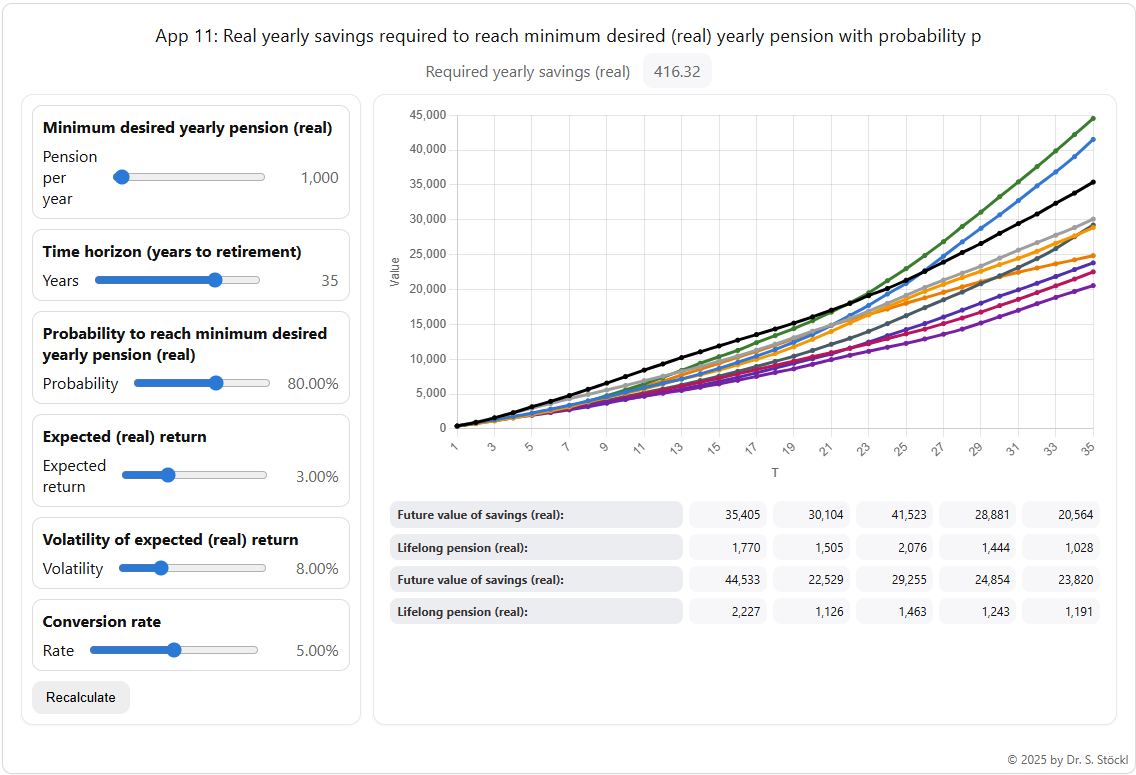
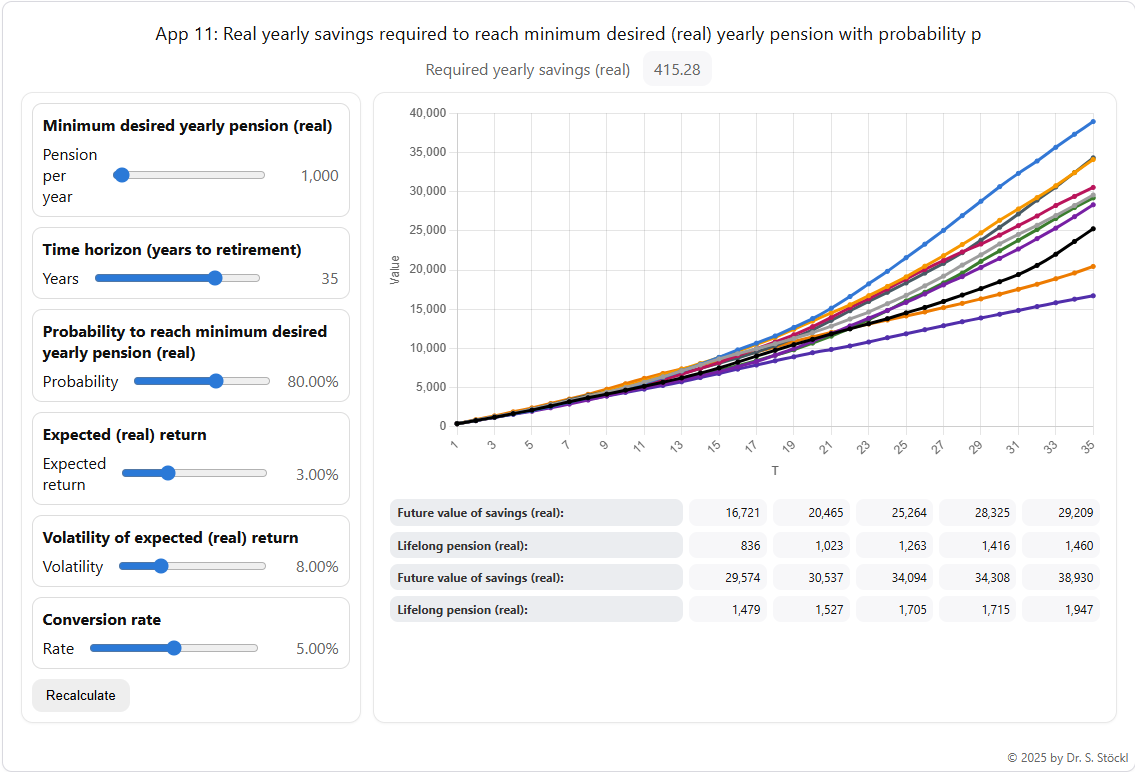
change add3.html

diff --git a/docs/add3.html b/docs/add3.html
@@ -10,15 +10,41 @@
 
 <style>
   html,body{height:100%;margin:0}
-  body{overflow:hidden;font-family:system-ui,Segoe UI,Arial,sans-serif;background:#fff;color:#111}
-  .app{height:640px;display:grid;place-items:stretch}
-  .wrap{max-width:1150px;margin:0 auto;padding:8px 12px;height:100%;box-sizing:border-box}
+  body{font-family:system-ui,Segoe UI,Arial,sans-serif;background:#fff;color:#111}
+
+  /* ===== outer shell (same as add2/add1) ===== */
+  .app-shell{
+    max-width: 1120px;
+    width: min(1120px, calc(100% - 16px));
+    margin: 10px auto;
+    border: 1px solid #d9d9df;
+    border-radius: 10px;
+    background: #fff;
+    padding: 6px;
+    display: grid;
+    grid-template-rows: auto min-content;
+    row-gap: 18px;
+    box-shadow: 0 1px 2px rgba(0,0,0,.04);
+  }
+  .app-shell__footer{
+    justify-self: end;
+    align-self: end;
+    font-size: .75rem;
+    color: #666;
+    white-space: nowrap;
+  }
+
+  /* ===== inner app ===== */
+  .wrap{ padding:8px 12px }
   .title{text-align:center;margin:4px 0 6px;font-size:1.15rem}
   .subtitle{text-align:center;margin-bottom:6px;color:#666}
-  .grid{display:grid;grid-template-columns:340px 1fr;gap:12px;height:calc(100% - 52px)}
+
+  .grid{display:grid;grid-template-columns:340px 1fr;gap:12px}
   @media (max-width:900px){.grid{grid-template-columns:1fr}}
   .panel{border:1px solid #e8e8e8;border-radius:12px;box-shadow:0 1px 2px rgba(0,0,0,.04);background:#fff}
   .left{padding:10px;overflow:auto}
+  .right{padding:10px;display:flex;flex-direction:column;gap:10px;min-width:0}
+
   .group{border:1px solid #ddd;border-radius:10px;padding:10px;margin-bottom:10px}
   .group h3{margin:0 0 8px;font-size:1rem}
   .row{display:flex;align-items:center;gap:.8rem}
@@ -26,26 +52,31 @@
   .val{width:7rem;text-align:right;color:#666;font-variant-numeric:tabular-nums}
   input[type=range]{width:100%}
   button{padding:.55rem .9rem;border:0;border-radius:10px;background:#eee;cursor:pointer}
-  .right{padding:10px;display:flex;flex-direction:column;height:100%;overflow:hidden}
-  .chartWrap{flex:1 0 auto;height:360px}
+
+  .chartWrap{height:380px}
   #line{width:100%;height:100%}
-  .kpi{margin-top:8px;text-align:center}
-  .kpi table{border-collapse:separate;border-spacing:6px;margin:0 auto}
-  .kpi th{background:#ebedf0;color:#333;padding:.35rem .6rem;border-radius:8px}
-  .kpi td{background:#f7f7f9;padding:.35rem .6rem;border-radius:8px;font-variant-numeric:tabular-nums}
-  .kpiTable { border-collapse: separate; border-spacing: 6px; margin: 0 auto; }
-  .kpiTable th, .kpiTable td {
-    background:#f7f7f9; padding:.45rem .6rem; border-radius:8px;
-    font-variant-numeric: tabular-nums;
-    text-align: right; white-space: nowrap;
+
+  /* ===== wrapping table (two-row blocks) ===== */
+  .kpiBlock{ width:100% }
+  .kpiTable{ width:100%; border-collapse:separate; border-spacing:6px; table-layout:auto }
+  .labelPill{
+    background:#ebedf0; color:#333;
+    padding:.32rem .48rem; border-radius:8px; white-space:nowrap;
+    font-size:12px; text-align:left;
   }
-.kpiTable th.label { background:#ebedf0; color:#333; text-align:left; }
-  .debug{margin-top:6px;background:#f7f7f9;border-radius:10px;padding:6px;overflow:auto;flex:0 0 110px;display:none}
+  .cellPill{
+    background:#f7f7f9; padding:.28rem .40rem; border-radius:8px;
+    text-align:right; font-variant-numeric:tabular-nums; white-space:nowrap;
+    font-size:12px;
+  }
+
+  /* Debug */
+  .debug{background:#f7f7f9;border-radius:10px;padding:6px;overflow:auto;display:none}
   pre{margin:0;font-size:.82rem}
 </style>
 </head>
 <body>
-<div class="app">
+<div class="app-shell">
   <div class="wrap">
     <div class="title" id="title">App 12: Years to ruin when spending yearly from given retirement savings</div>
     <div class="subtitle" id="subtitle">Development of wealth with constant yearly spending</div>
@@ -96,27 +127,28 @@
       <div class="panel right">
         <div class="chartWrap"><canvas id="line"></canvas></div>
 
-          <div class="kpi">
-            <table class="kpiTable" id="kpiTableAdd3">
+        <div class="kpiBlock" id="kpiTableWrap">
+          <table class="kpiTable">
+            <tbody id="kpiBody">
               <tr id="add3RowHeader">
-                <th class="label" id="kYearsHdr">Time since entering retirement phase (years):</th>
-                <!-- dynamic year cells -->
+                <th class="labelPill" id="kYearsHdr">Time since entering retirement phase (years):</th>
               </tr>
-              <tr id="add2RowCounts">
-                <th class="label" id="kRuinsHdr">Number of ruins after N years:</th>
-                <!-- dynamic count cells -->
+              <tr id="add3RowCounts">
+                <th class="labelPill" id="kRuinsHdr">Number of ruins after N years:</th>
               </tr>
-            </table>
-          </div>
+            </tbody>
+          </table>
+        </div>
 
         <div class="debug" id="debugBox"><pre id="debug">Waiting…</pre></div>
       </div>
     </div>
   </div>
+  <div class="app-shell__footer">© 2025 by Dr. S. Stöckl</div>
 </div>
 
 <script type="module">
-  // URL params (incl. seed like add1)
+  // URL params
   const params=new URLSearchParams(location.search);
   const lang =(params.get("lang") || "en_EN").toLowerCase();
   const debug=(params.get("debug")||"FALSE").toUpperCase()==="TRUE";
@@ -153,67 +185,91 @@
   // UI
   const spendEl=spend, wealthEl=wealth, muEl=mu, volEl=vol;
   const spendLbl=spendLabel, wealthLbl=wealthLabel, muLbl=muLabel, volLbl=volLabel;
-  const yearsCell=document.getElementById("yearsRow");
-  const ruinsCell=document.getElementById("ruinsRow");
-  const dbgEl=document.getElementById("debug");
   const fmt=(x,opts={})=>Number(x).toLocaleString(undefined,{maximumFractionDigits:0,...opts});
   const pct=x=>(parseFloat(x)*100).toFixed(2)+"%";
-  const log=x=>{ if(debug) dbgEl.textContent=typeof x==="string"?x:JSON.stringify(x,null,2); };
+  const log=x=>{ if(debug) document.getElementById("debug").textContent=typeof x==="string"?x:JSON.stringify(x,null,2); };
 
   function refresh(){
-    spendLbl.textContent=fmt(spendEl.value,{maximumFractionDigits:0});
-    wealthLbl.textContent=fmt(wealthEl.value,{maximumFractionDigits:0});
+    spendLbl.textContent=fmt(spendEl.value);
+    wealthLbl.textContent=fmt(wealthEl.value);
     muLbl.textContent=pct(muEl.value);
     volLbl.textContent=pct(volEl.value);
   } refresh();
 
-  // Chart (multi-line)
+  // Chart
   const COLORS=["#000","#9e9e9e","#1976d2","#ff9800","#7b1fa2","#2e7d32","#c2185b","#455a64","#f57c00","#512da8"];
   const ctx=document.getElementById("line").getContext("2d");
   const line=new Chart(ctx,{type:"line",data:{labels:[],datasets:[]},
-    options:{
-      responsive:true,maintainAspectRatio:false,
-      scales:{ x:{title:{display:true,text:"N"}}, y:{beginAtZero:true,title:{display:true,text:"Value"},ticks:{callback:v=>fmt(v)}}},
-      elements:{point:{radius:2}},
-      plugins:{legend:{display:false}}
+    options:{responsive:true,maintainAspectRatio:false,
+      scales:{x:{title:{display:true,text:"N"}},y:{beginAtZero:true,title:{display:true,text:"Value"},ticks:{callback:v=>fmt(v)}}},
+      elements:{point:{radius:2}}, plugins:{legend:{display:false}}
     }});
-
   function drawPaths(t, paths){
     line.data.labels=t.map(String);
-    line.data.datasets = paths.map((row,i)=>({
-      label:"path"+(i+1),
-      data:row,
-      borderColor:COLORS[i%COLORS.length],
-      backgroundColor:COLORS[i%COLORS.length],
-      tension:0.15,
-      fill:false
+    line.data.datasets=paths.map((row,i)=>({
+      label:"path"+(i+1), data:row,
+      borderColor:COLORS[i%COLORS.length], backgroundColor:COLORS[i%COLORS.length],
+      tension:0.15, fill:false
     }));
     line.update();
   }
 
-  function renderInlineCells(el, arr){
-    el.innerHTML = (arr||[]).map(v=>`<span style="background:#f7f7f9;border-radius:8px;padding:.35rem .6rem;margin-right:6px;display:inline-block">${fmt(v)}</span>`).join("");
+  // ===== wrapping two-row table, sorted by year =====
+  const CELL_MIN=80, CELL_GAP=12, LABEL_EST=240; // ruin table has longer label
+  function columnsPerRow(){
+    const wrap = document.getElementById("kpiTableWrap");
+    const w = wrap.clientWidth || 600;
+    const avail = Math.max(200, w - LABEL_EST);
+    return Math.max(1, Math.min(12, Math.floor(avail / (CELL_MIN + CELL_GAP))));
   }
-  
-  function renderKpiTableAdd3(years, counts) {
-    const hdr = document.getElementById("add2RowHeader");
-    const cnt = document.getElementById("add2RowCounts");
-    // keep first cell (the label), remove the rest
-    hdr.querySelectorAll("td").forEach(td => td.remove());
-    cnt.querySelectorAll("td").forEach(td => td.remove());
-    (years || []).forEach(y => {
-      const td = document.createElement("td"); td.textContent = Number(y).toLocaleString(); hdr.appendChild(td);
-    });
-    (counts || []).forEach(v => {
-      const td = document.createElement("td"); td.textContent = Number(v).toLocaleString(); cnt.appendChild(td);
-    });
+  function renderRuinsTable(years, counts){
+    const tbody = document.getElementById("kpiBody");
+    tbody.innerHTML = "";
+
+    // pair, filter finite, sort by year asc
+    const pairs=[];
+    const L = Math.min(years?.length||0, counts?.length||0);
+    for(let i=0;i<L;i++){
+      const y = Number(years[i]), c = Number(counts[i]);
+      if (Number.isFinite(y) && Number.isFinite(c)) pairs.push({y,c});
+    }
+    pairs.sort((a,b)=>a.y-b.y);
+
+    const cols = columnsPerRow();
+    for(let i=0;i<pairs.length;i+=cols){
+      const slice = pairs.slice(i, i+cols);
+
+      const tr1=document.createElement("tr");
+      const th1=document.createElement("th");
+      th1.className="labelPill"; th1.textContent=T.kYearsHdr;
+      tr1.appendChild(th1);
+      slice.forEach(({y})=>{
+        const td=document.createElement("td");
+        td.className="cellPill"; td.textContent=fmt(y);
+        tr1.appendChild(td);
+      });
+      tbody.appendChild(tr1);
+
+      const tr2=document.createElement("tr");
+      const th2=document.createElement("th");
+      th2.className="labelPill"; th2.textContent=T.kRuinsHdr;
+      tr2.appendChild(th2);
+      slice.forEach(({c})=>{
+        const td=document.createElement("td");
+        td.className="cellPill"; td.textContent=fmt(c);
+        tr2.appendChild(td);
+      });
+      tbody.appendChild(tr2);
+    }
   }
+  window.addEventListener("resize", ()=>{
+    if (window._ruinsCache) renderRuinsTable(window._ruinsCache.y, window._ruinsCache.c);
+  });
 
   // WebR
   import { WebR } from "https://webr.r-wasm.org/latest/webr.mjs";
   const webr=new WebR();
 
-  // small helpers to read WebR list/matrix structures
   const getListElem=(obj,name)=>{
     if (!obj) return undefined;
     if (obj[name]!==undefined) return obj[name];
@@ -243,6 +299,7 @@
             w0 = +wealthEl.value,
             mu = +muEl.value,
             sg = +volEl.value;
+
       const r = await webr.evalR(`
         out <- uadd3(
           spend_real=${s}, wealth0=${w0}, mu_real=${mu}, vol_real=${sg},
@@ -254,29 +311,28 @@
       const results=getListElem(root,"results") || root.results;
 
       const tArr   = vec(getListElem(results,"t"));
-      const qYears = vec(getListElem(results,"table_years"));
-      const qCnt   = vec(getListElem(results,"table_cum_ruins"));
+      const years  = vec(getListElem(results,"table_years"));
+      const counts = vec(getListElem(results,"table_cum_ruins"));
       const pathsO = getListElem(results,"paths");
       const flat   = vec(pathsO);
 
-      // dimensions (try dim; else from tArr length)
+      // rebuild paths (column-major)
       let nrow=0, ncol=0;
-      if (pathsO && pathsO.dim) { const d=vec(pathsO.dim); if (d.length===2){ nrow=d[0]; ncol=d[1]; } }
+      if (pathsO && pathsO.dim){ const d=vec(pathsO.dim); if(d.length===2){ nrow=d[0]; ncol=d[1]; } }
       if ((!nrow||!ncol) && tArr.length>0 && flat.length%tArr.length===0){ ncol=tArr.length; nrow=flat.length/ncol; }
-
       const paths=[];
       if (nrow>0 && ncol>0 && flat.length===nrow*ncol){
-        for(let r=0;r<nrow;r++){
-          const row=[];
-          for(let c=0;c<ncol;c++){ row.push( flat[r + c*nrow] ); }
+        for(let rI=0;rI<nrow;rI++){
+          const row=[]; for(let cI=0;cI<ncol;cI++){ row.push( flat[rI + cI*nrow] ); }
           paths.push(row);
         }
       }
 
       drawPaths(tArr, paths);
-      renderKpiTableAdd3(qYears, qCnt);
+      window._ruinsCache = {y: years, c: counts};
+      renderRuinsTable(years, counts);
 
-      if (debug) log({tLen:tArr.length,nPaths:paths.length,rowLen:paths[0]?.length||0,years:qYears,counts:qCnt});
+      if (debug) log({tLen:tArr.length, nPaths:paths.length, years, counts});
     }catch(e){
       log("Compute error: "+(e?.message||e));
     }
@@ -284,6 +340,7 @@
 
   document.getElementById("compute").addEventListener("click", compute);
   [spendEl,wealthEl,muEl,volEl].forEach(el=>el.addEventListener("input", compute));
+
   await init(); await compute();
 </script>
 </body>
